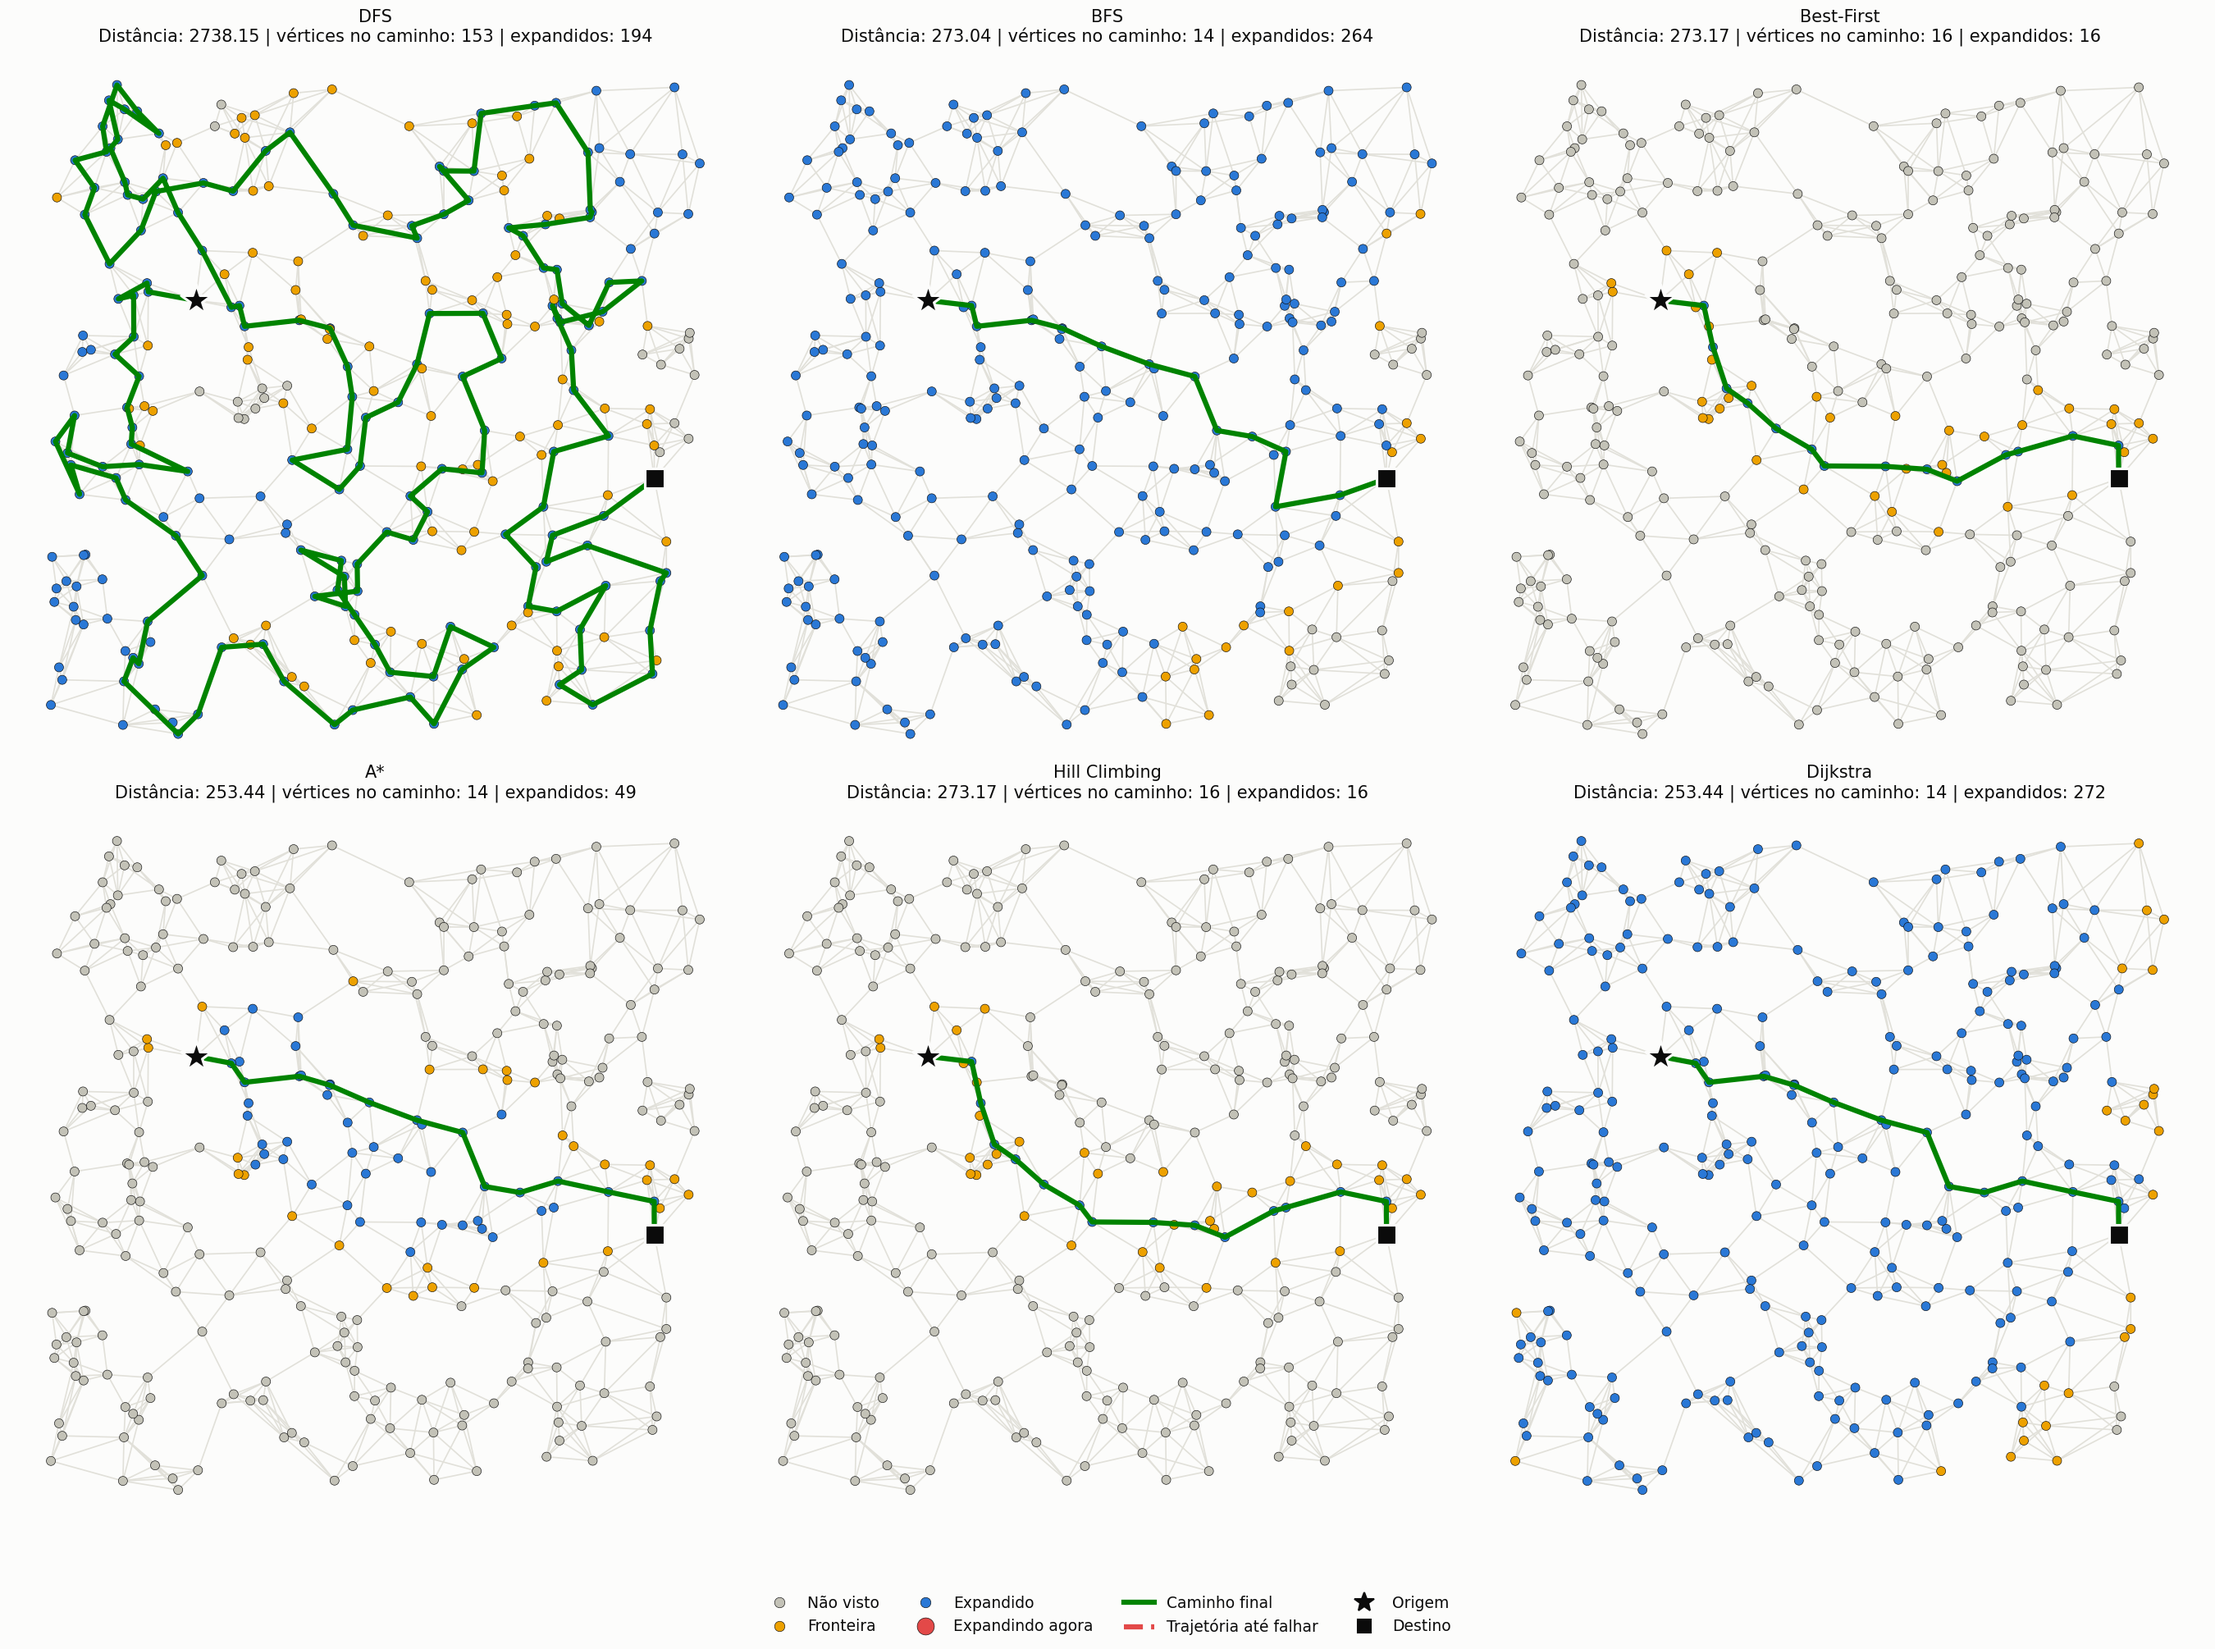
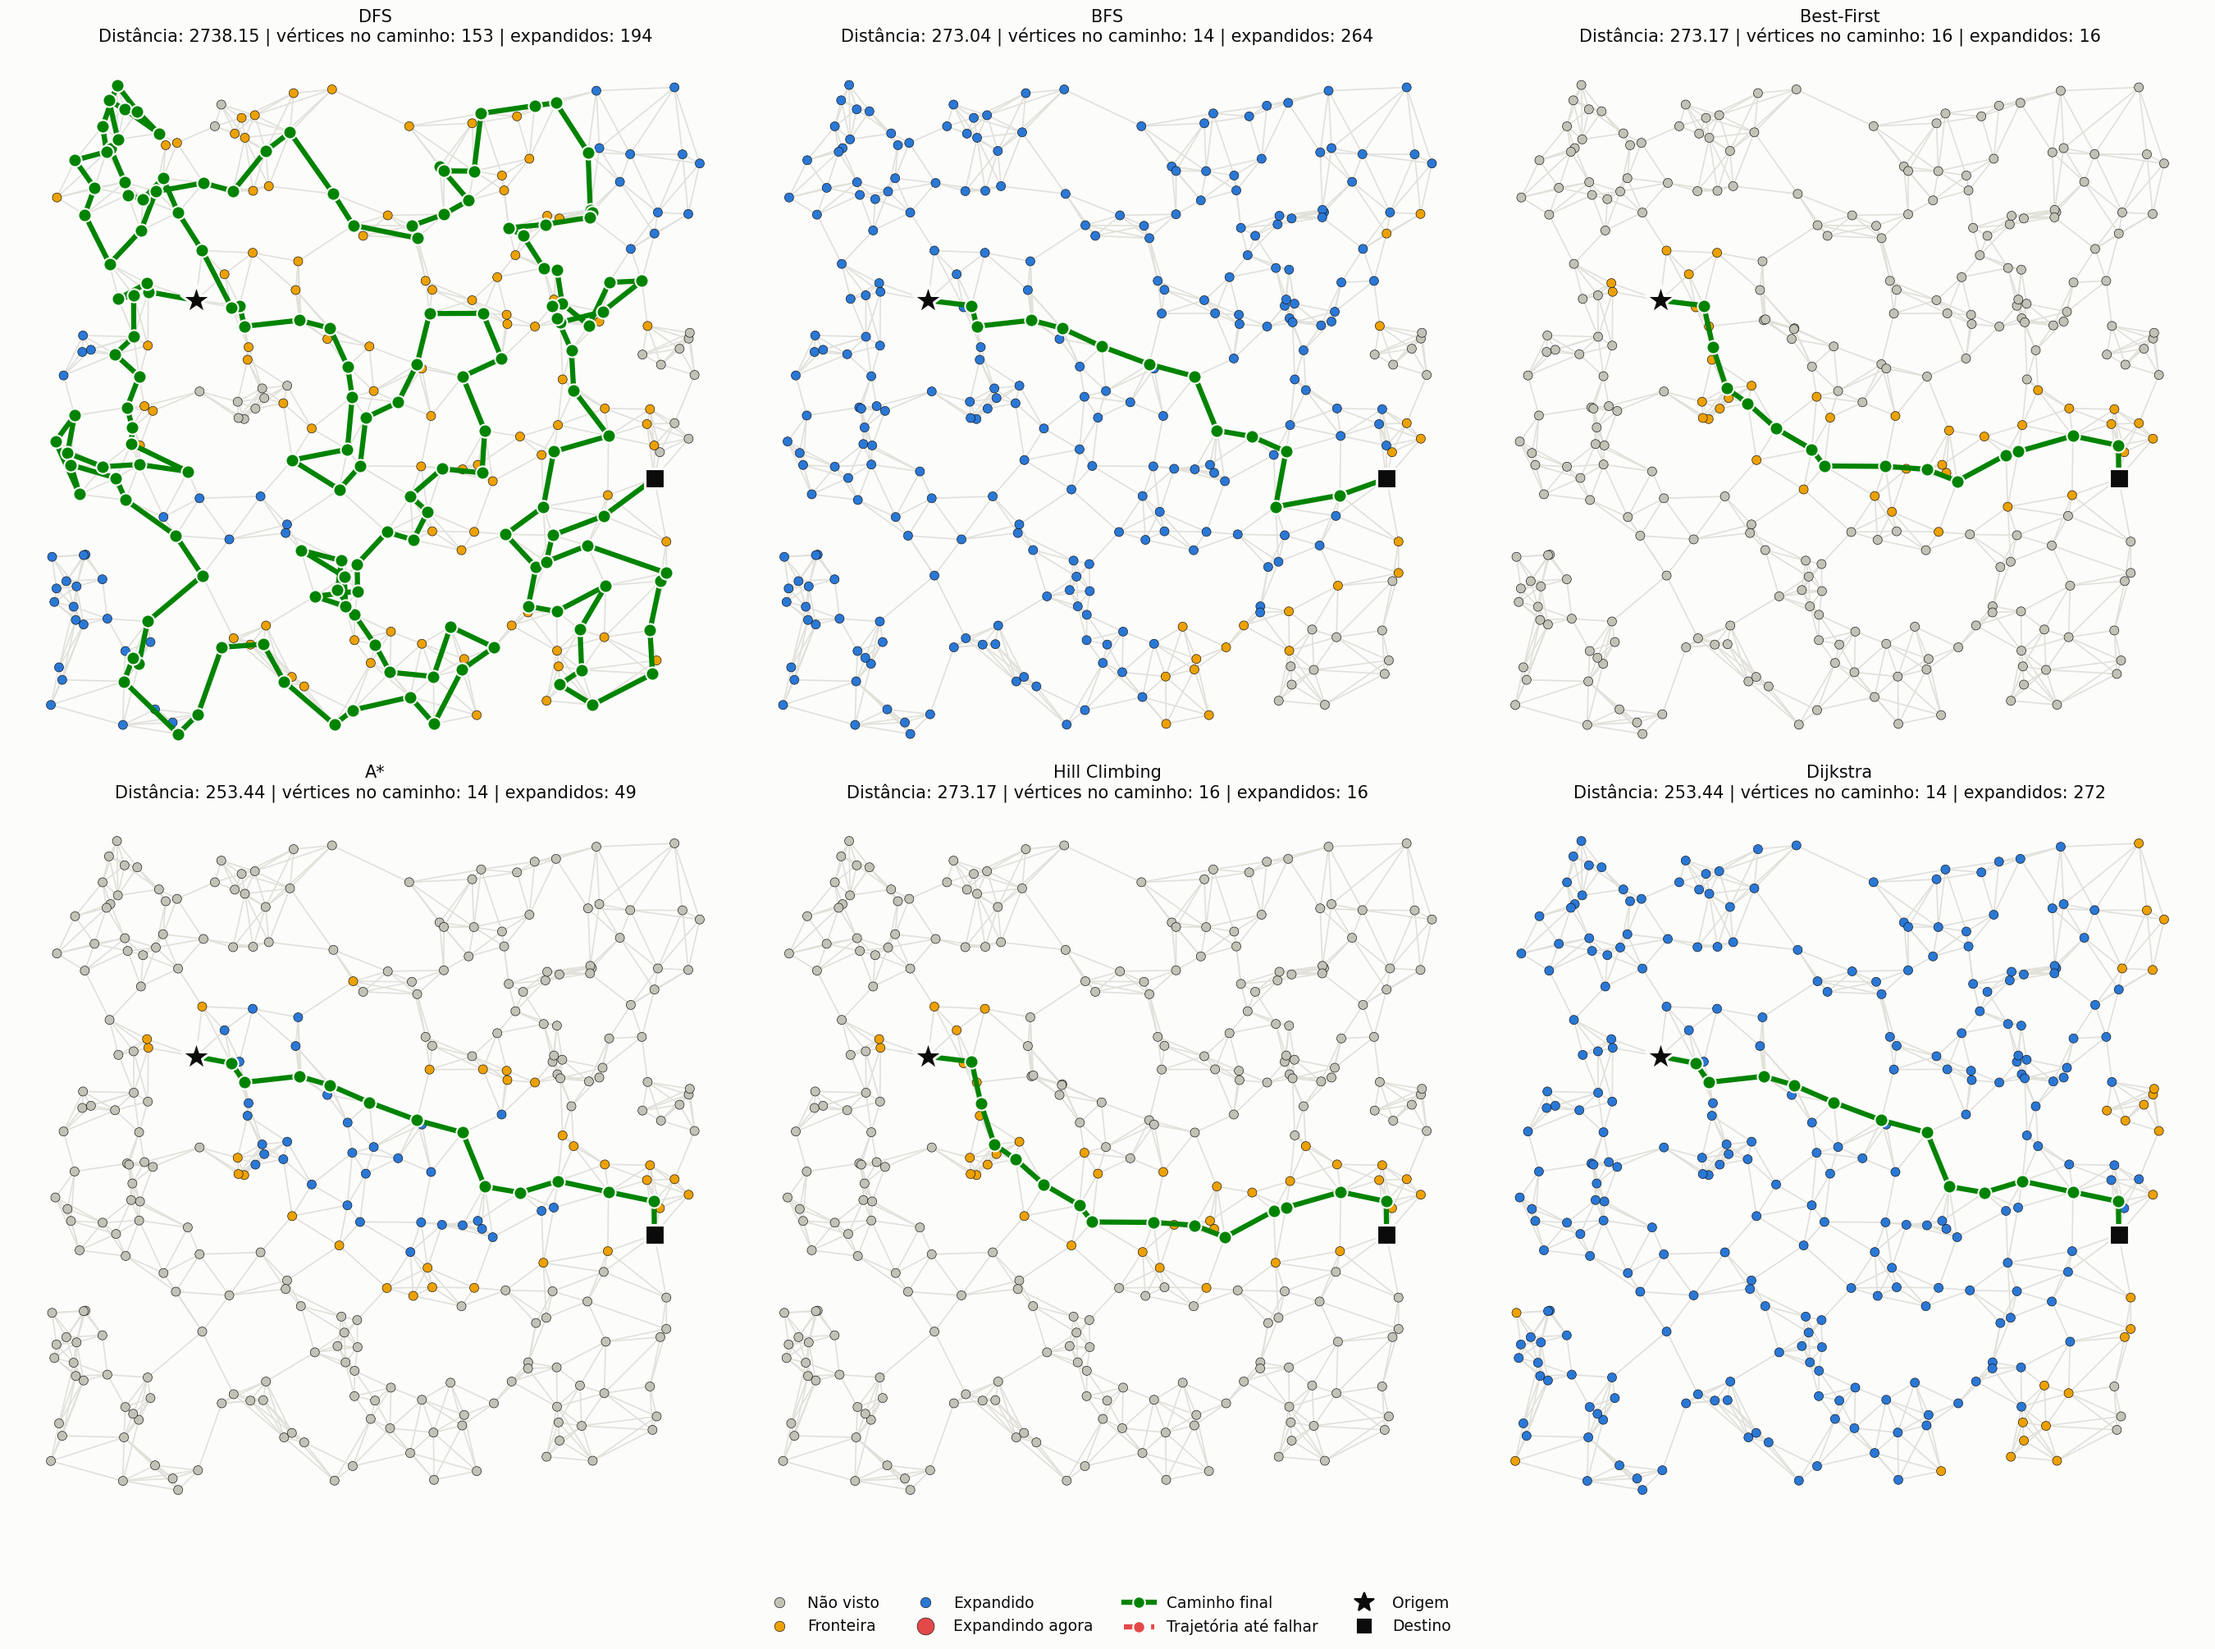
Update visualizacao.py

Changed region(s): [[0.0311, 0.2468, 0.0622, 0.3085], [0.0311, 0.0617, 0.0622, 0.1234], [0.2489, 0.1851, 0.28, 0.2159]]

diff --git a/src/visualizacao.py b/src/visualizacao.py
@@ -17,7 +17,7 @@ matplotlib.use("Agg")
 import matplotlib.pyplot as plt
 import numpy as np
 from matplotlib import animation
-from matplotlib.collections import LineCollection
+from matplotlib.collections import LineCollection, PathCollection
 from matplotlib.colors import to_rgba
 from matplotlib.lines import Line2D
 
@@ -62,6 +62,9 @@ CORES_POR_ESTADO = np.array([to_rgba(COR_NAO_VISTO), to_rgba(COR_FRONTEIRA), to_
 # Tamanho dos vértices comuns e do vértice atual, em pontos ao quadrado (unidade do scatter)
 TAMANHO_VERTICE = 28
 TAMANHO_VERTICE_ATUAL = 90
+
+# Tamanho dos vértices que fazem parte do caminho final, maior que o dos vértices comuns para cada um ficar visível
+TAMANHO_VERTICE_CAMINHO = 60
 
 # Tamanho dos marcadores de origem e destino
 TAMANHO_MARCADOR_EXTREMO = 220
@@ -198,9 +201,12 @@ def desenha_base(eixo: plt.Axes, grafo: Grafo, origem: int, destino: int):
 
     return pontosVertices
 
-def desenha_caminho(eixo: plt.Axes, grafo: Grafo, caminho: list[int], falhou: bool) -> Line2D:
+def desenha_caminho(eixo: plt.Axes, grafo: Grafo, caminho: list[int], falhou: bool) -> tuple[Line2D, PathCollection]:
     """
-    Desenha um caminho como uma linha grossa ligando os vértices em ordem.
+    Desenha um caminho como uma linha grossa ligando os vértices em ordem, com cada vértice destacado.
+
+    O destaque nos vértices deixa visível cada vértice que faz parte do
+    caminho, e não só a linha que passa por eles.
 
     Args:
         eixo: Eixo do matplotlib onde o caminho é desenhado.
@@ -209,7 +215,7 @@ def desenha_caminho(eixo: plt.Axes, grafo: Grafo, caminho: list[int], falhou: bo
         falhou: Se verdadeiro, desenha como trajetória de falha (vermelha e tracejada).
 
     Returns:
-        A linha desenhada.
+        A linha desenhada e o objeto de pontos dos vértices destacados.
     """
     # Separa as coordenadas x e y dos vértices do caminho, na ordem do caminho
     coordenadasX = [grafo.coordenadas[vertice][0] for vertice in caminho]
@@ -222,7 +228,10 @@ def desenha_caminho(eixo: plt.Axes, grafo: Grafo, caminho: list[int], falhou: bo
     # Desenha a linha acima dos vértices e abaixo dos marcadores de origem e destino
     (linhaCaminho,) = eixo.plot(coordenadasX, coordenadasY, color=cor, linestyle=estilo, linewidth=3, solid_capstyle="round", zorder=4)
 
-    return linhaCaminho
+    # Desenha cada vértice do caminho por cima da linha, na mesma cor, com contorno da cor do fundo para separá-lo da linha
+    pontosCaminho = eixo.scatter(coordenadasX, coordenadasY, s=TAMANHO_VERTICE_CAMINHO, c=cor, edgecolors=COR_FUNDO, linewidths=1, zorder=4.5)
+
+    return linhaCaminho, pontosCaminho
 
 def texto_resumo(resultado: ResultadoBusca) -> str:
     """
@@ -256,8 +265,8 @@ def cria_legenda(figura: plt.Figure) -> None:
         Line2D([], [], marker="o", linestyle="", markersize=6, markerfacecolor=COR_FRONTEIRA, markeredgecolor=COR_TEXTO, markeredgewidth=0.3, label="Fronteira"),
         Line2D([], [], marker="o", linestyle="", markersize=6, markerfacecolor=COR_EXPANDIDO, markeredgecolor=COR_TEXTO, markeredgewidth=0.3, label="Expandido"),
         Line2D([], [], marker="o", linestyle="", markersize=10, markerfacecolor=COR_ATUAL, markeredgecolor=COR_TEXTO, markeredgewidth=0.3, label="Expandindo agora"),
-        Line2D([], [], color=COR_CAMINHO, linewidth=3, label="Caminho final"),
-        Line2D([], [], color=COR_TRAJETORIA_FALHA, linewidth=3, linestyle="--", label="Trajetória até falhar"),
+        Line2D([], [], color=COR_CAMINHO, linewidth=3, marker="o", markersize=7, markeredgecolor=COR_FUNDO, label="Caminho final"),
+        Line2D([], [], color=COR_TRAJETORIA_FALHA, linewidth=3, linestyle="--", marker="o", markersize=7, markeredgecolor=COR_FUNDO, label="Trajetória até falhar"),
         Line2D([], [], marker="*", linestyle="", markersize=12, color=COR_TEXTO, label="Origem"),
         Line2D([], [], marker="s", linestyle="", markersize=8, color=COR_TEXTO, label="Destino"),
     ]
@@ -355,16 +364,18 @@ def cria_animacao(
     # Vetor de tamanhos dos vértices, alterado para destacar o vértice atual
     tamanhosBase = np.full(grafo.quantidade_vertices(), TAMANHO_VERTICE, dtype=float)
 
-    # Escolhe a linha final: o caminho encontrado ou a trajetória até a falha
+    # Escolhe o desenho final: o caminho encontrado ou a trajetória até a falha; a lista guarda a linha e os vértices destacados
+    elementosFinais: list = []
     if resultado.encontrouSolucao:
-        linhaFinal = desenha_caminho(eixo, grafo, resultado.caminho, falhou=False)
+        elementosFinais = list(desenha_caminho(eixo, grafo, resultado.caminho, falhou=False))
     else:
         trajetoria = extrai_trajetoria(grafo, resultado.eventos)
-        linhaFinal = desenha_caminho(eixo, grafo, trajetoria, falhou=True) if trajetoria and len(trajetoria) > 1 else None
+        if trajetoria and len(trajetoria) > 1:
+            elementosFinais = list(desenha_caminho(eixo, grafo, trajetoria, falhou=True))
 
-    # A linha final fica escondida até o fim da animação
-    if linhaFinal is not None:
-        linhaFinal.set_visible(False)
+    # O caminho final fica escondido até o fim da animação
+    for elemento in elementosFinais:
+        elemento.set_visible(False)
 
     # Título que muda a cada quadro
     titulo = eixo.set_title("", fontsize=12, color=COR_TEXTO)
@@ -401,9 +412,9 @@ def cria_animacao(
         pontosVertices.set_facecolors(cores)
         pontosVertices.set_sizes(tamanhos)
 
-        # Mostra a linha final apenas nos quadros parados do fim
-        if linhaFinal is not None:
-            linhaFinal.set_visible(not mostrandoBusca)
+        # Mostra o caminho final (linha e vértices destacados) apenas nos quadros parados do fim
+        for elemento in elementosFinais:
+            elemento.set_visible(not mostrandoBusca)
 
         # Conta os vértices expandidos até este passo
         expandidosAteAgora = int(np.count_nonzero(estados == ESTADO_EXPANDIDO))
@@ -414,7 +425,7 @@ def cria_animacao(
         else:
             titulo.set_text(f"{nomeAlgoritmo}\n{texto_resumo(resultado)}")
 
-        return [pontosVertices, titulo] + ([linhaFinal] if linhaFinal is not None else [])
+        return [pontosVertices, titulo] + elementosFinais
 
     # Cria a animação chamando atualiza_quadro para cada quadro, sem blit para o título também ser redesenhado
     animacaoBusca = animation.FuncAnimation(figura, atualiza_quadro, frames=totalQuadros, blit=False)
